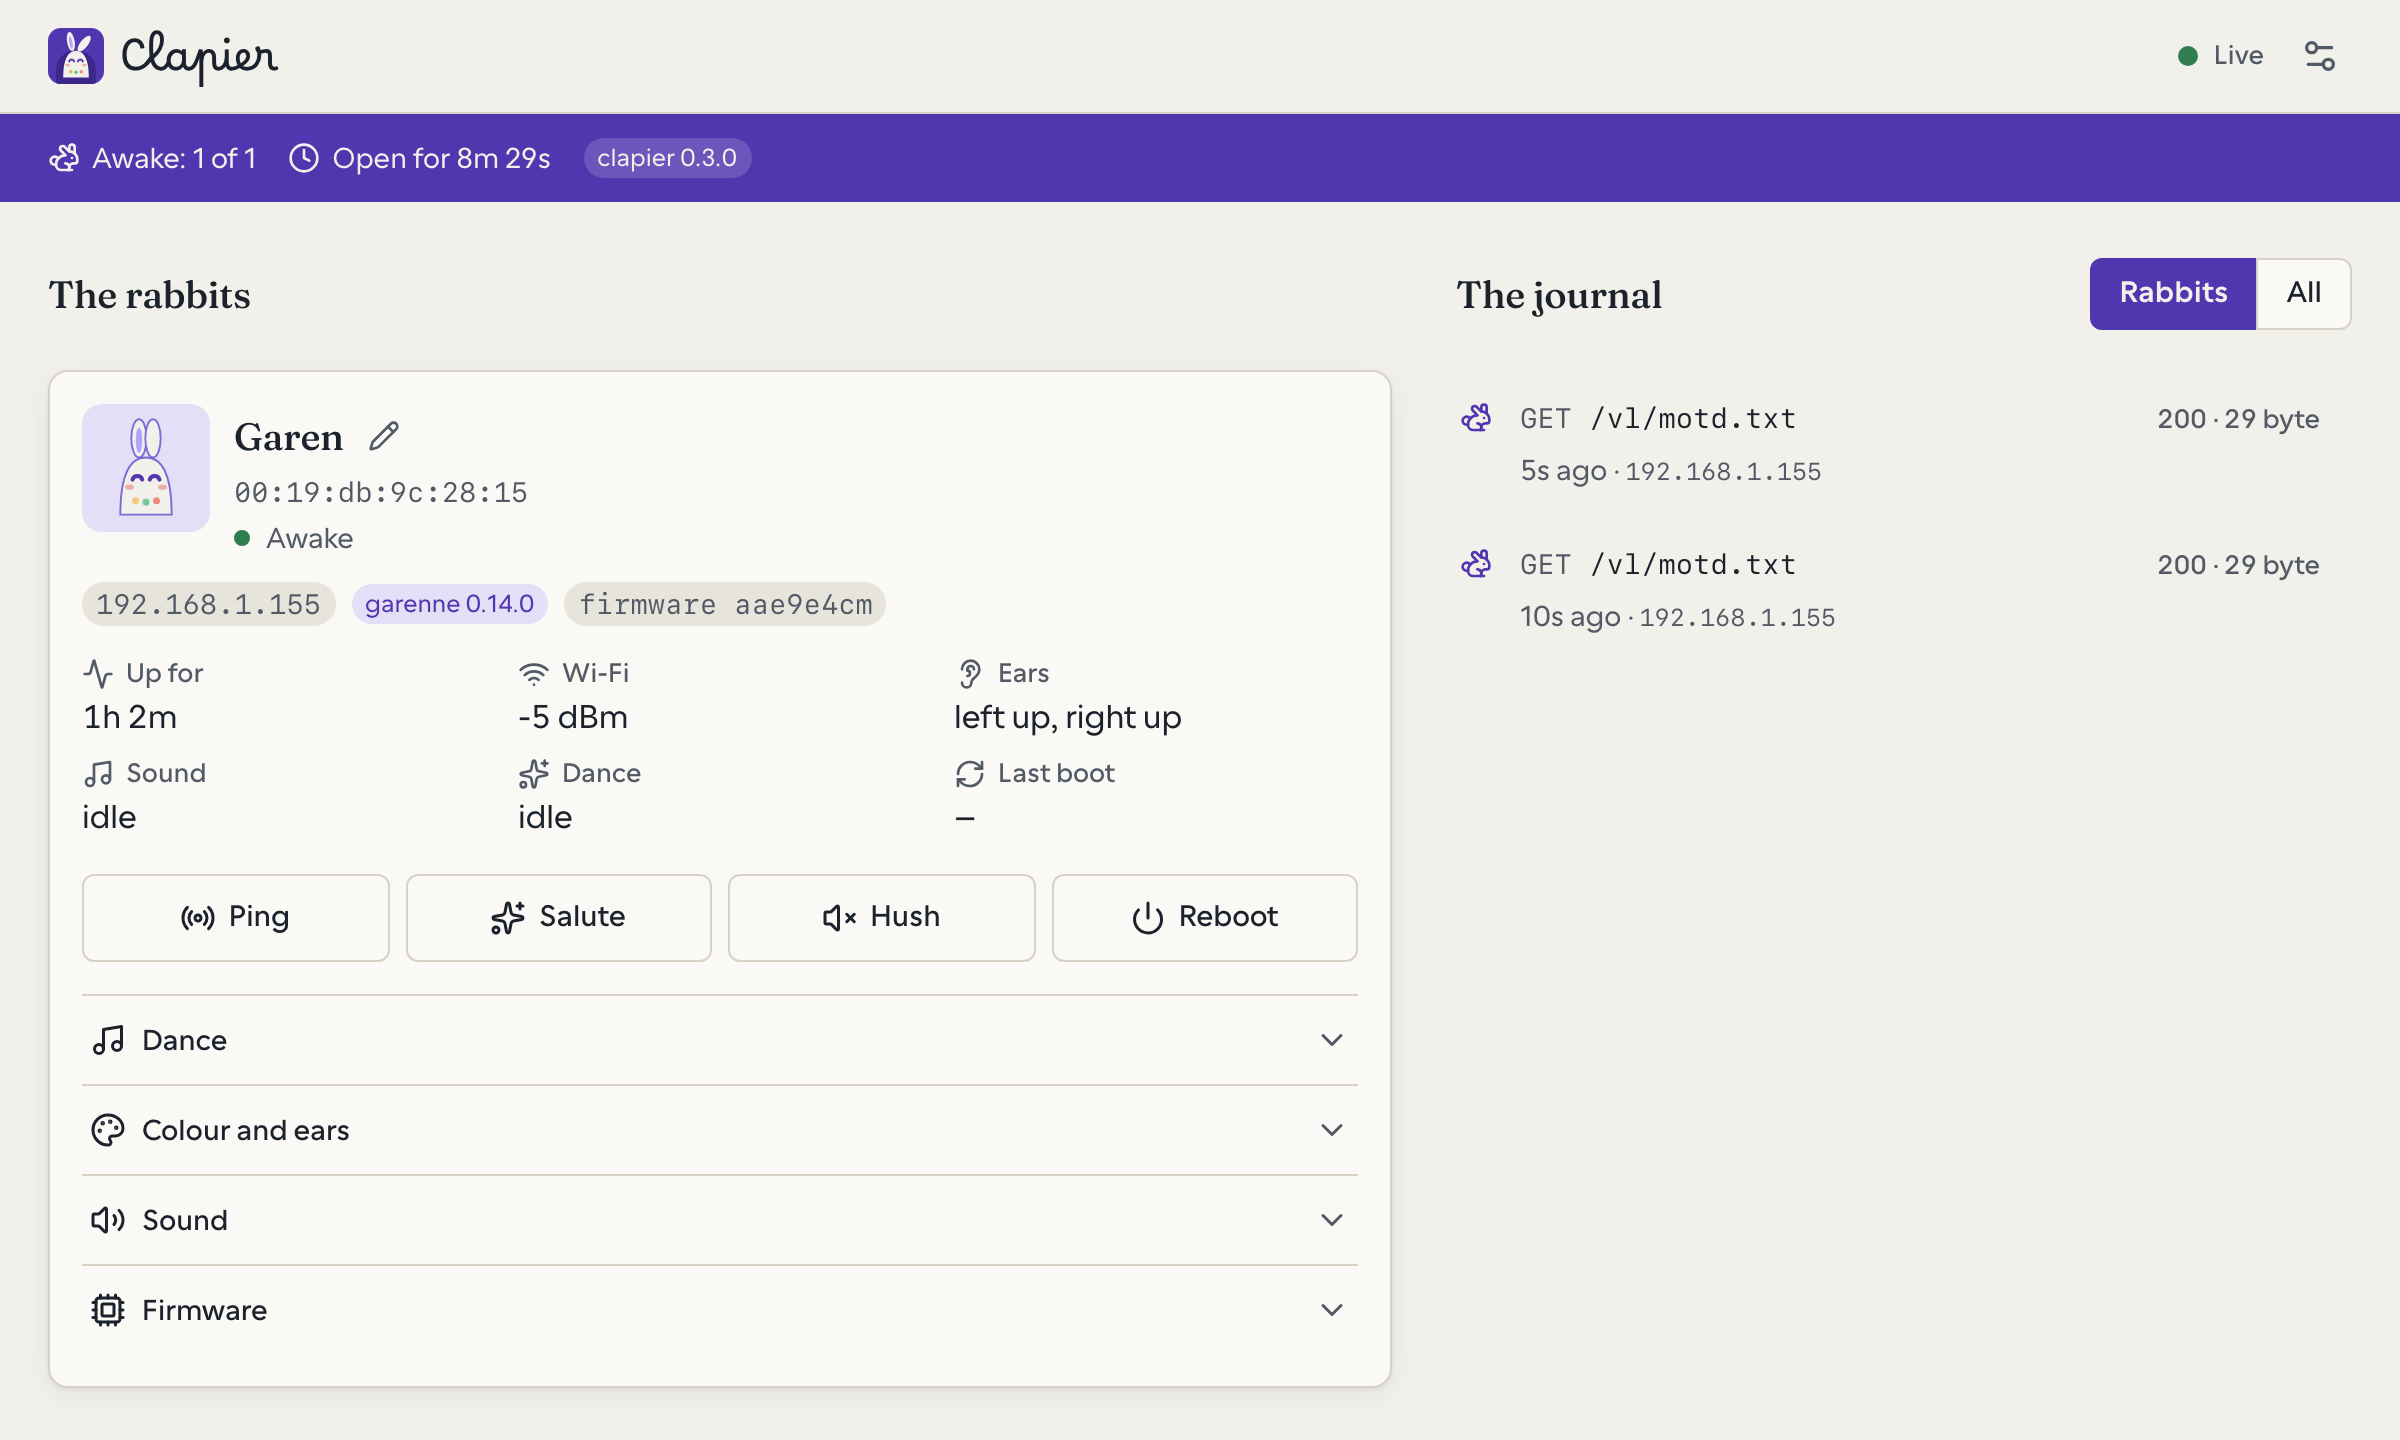
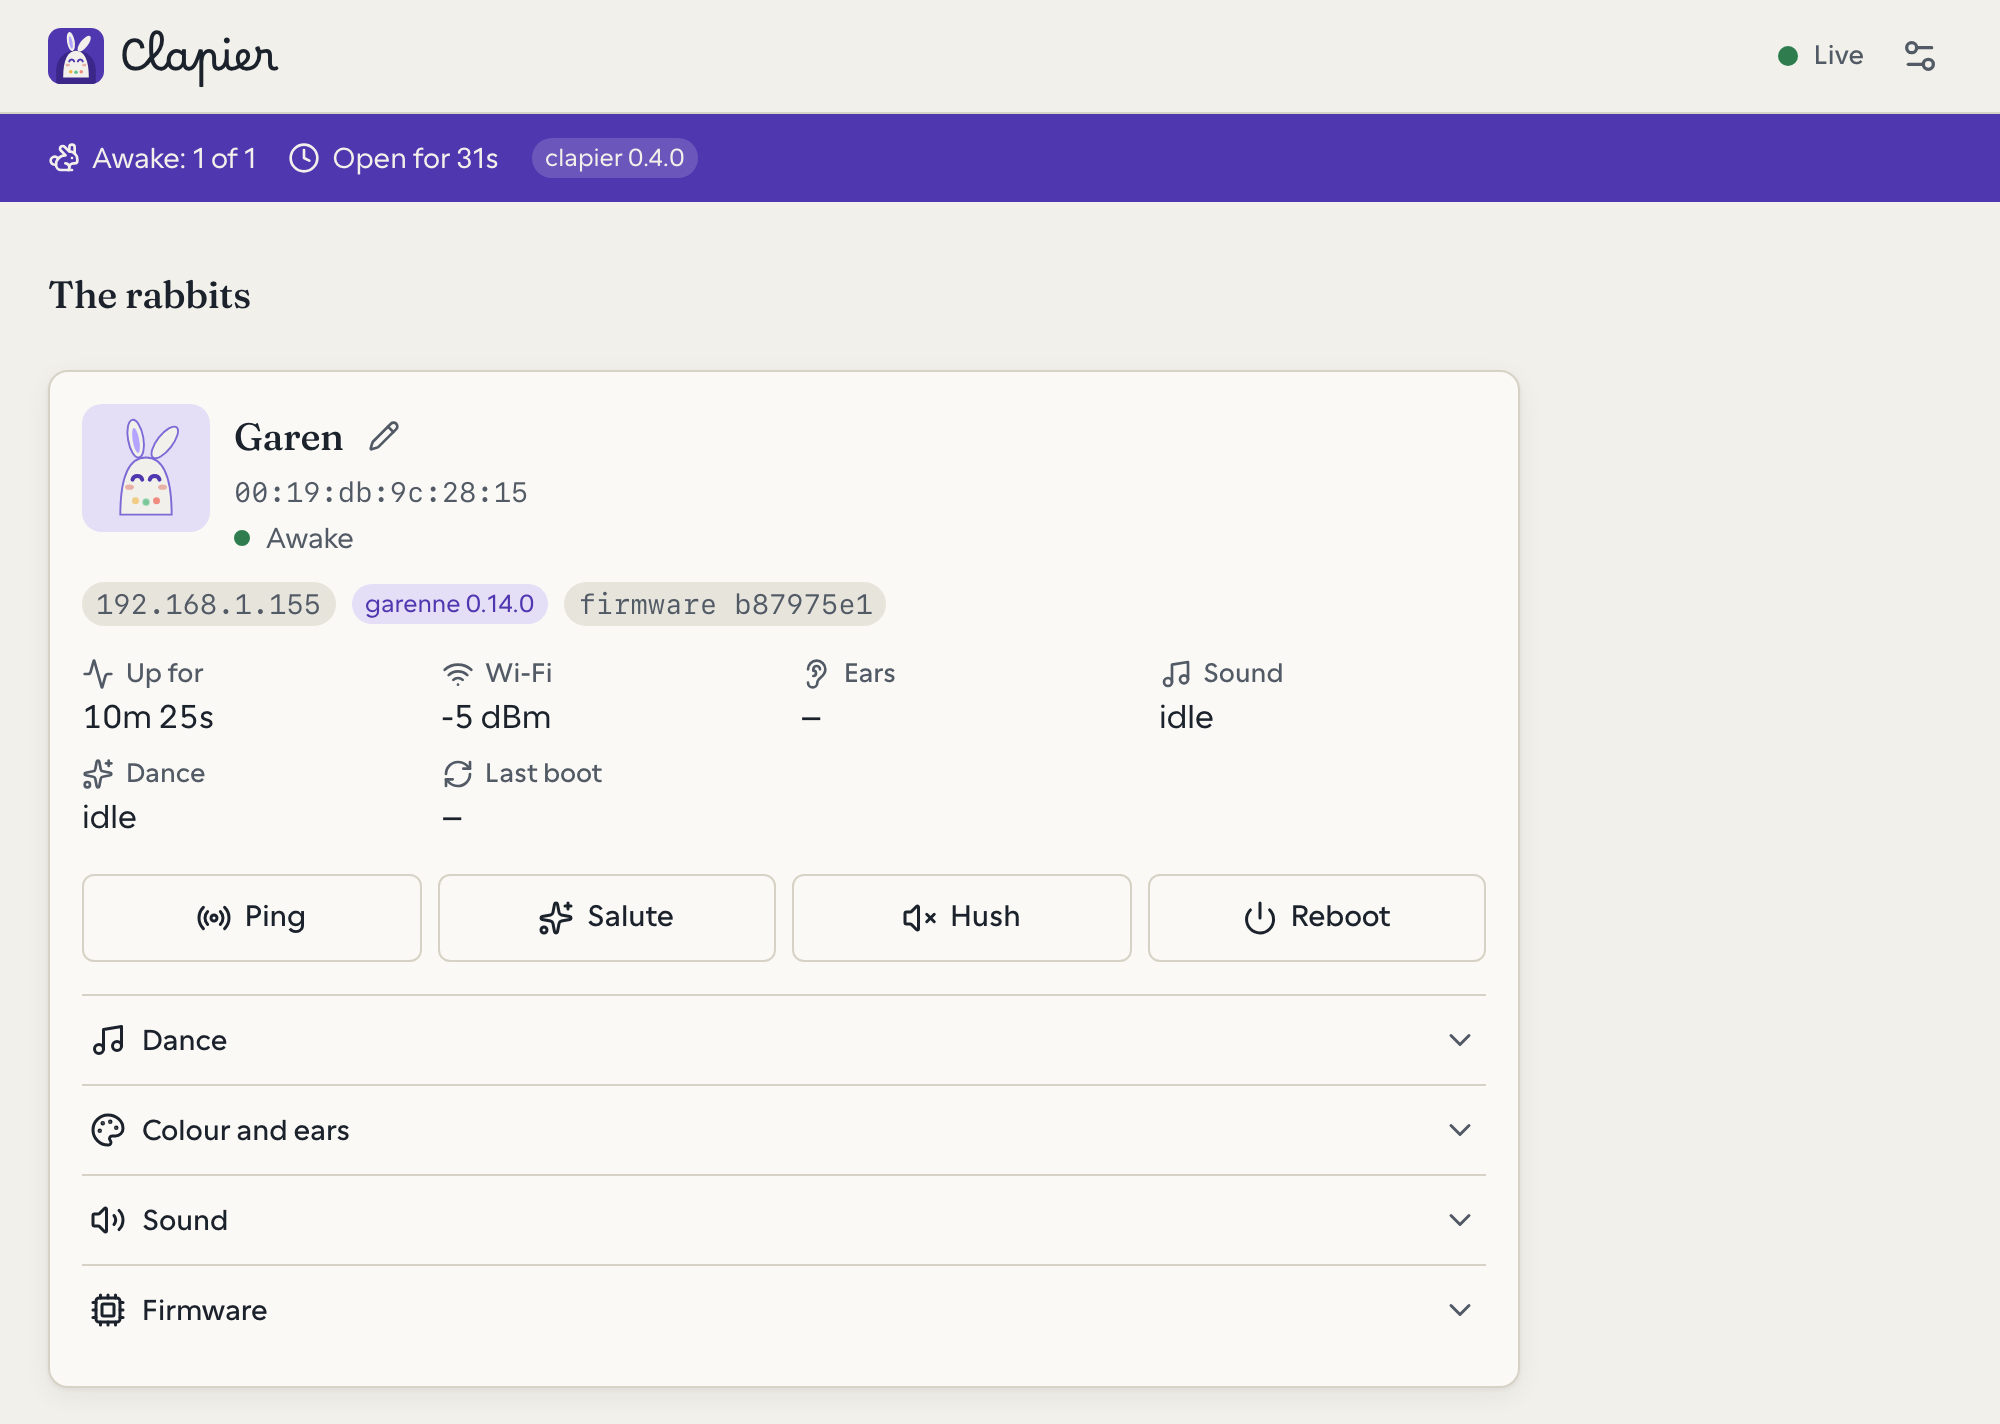
release: 0.4.0, again — with the firmware it was meant to carry
The first v0.4.0 was cut before nabgcc's wpa23-gtk r3 was published and
shipped r2, on a bookworm toolchain, under screenshots of a build that
still called itself 0.3.0. It is withdrawn; this is the one.

The changelog's 0.4.0 section takes the firmware and the trixie move,
the README names r3, and the screenshots come from this build.

diff --git a/CHANGELOG.md b/CHANGELOG.md
@@ -7,13 +7,6 @@ and this project adheres to [Semantic Versioning](https://semver.org/spec/v2.0.0
 
 ## [Unreleased]
 
-### Changed
-
-- The Metal toolchain image (`vendor/metal`, which builds and tests
-  garenne locally and in the release workflow) moves from Debian
-  bookworm to trixie. The bytecode it produces is byte for byte the
-  same.
-
 ## [0.4.0] - 2026-11-22
 
 ### Added
@@ -53,6 +46,12 @@ and this project adheres to [Semantic Versioning](https://semver.org/spec/v2.0.0
 
 ### Changed
 
+- The archives carry nabgcc's `wpa23-gtk` r3 firmware: the first to
+  name its build, with the Wi-Fi fixes that came with it.
+- The Metal toolchain image (`vendor/metal`, which builds and tests
+  garenne locally and in the release workflow) moves from Debian
+  bookworm to trixie. The bytecode it produces is byte for byte the
+  same.
 - The web app's addresses are plain: its JSON under `/api`, its files
   under `/assets`, `/health`. Everything under `/_clapier` leads home.
 - One rabbit takes the room it is given, the journal sits beside it on

diff --git a/README.md b/README.md
@@ -14,7 +14,7 @@ the 2006 rabbit WPA2/WPA3.
 
 <picture>
   <source media="(prefers-color-scheme: dark)" srcset="docs/screenshot-dark.png">
-  <img src="docs/screenshot.png" alt="Clapier's web app: Garen, awake, its state, its gestures and the journal of what it asked">
+  <img src="docs/screenshot.png" alt="Clapier's web app: Garen, awake, the garenne and the firmware it runs, its state and its gestures">
 </picture>
 
 ## Install
@@ -91,8 +91,8 @@ behind a flash: do not unplug the rabbit during those seconds, and keep
 the JTAG guide within reach for a firmware that turns out not to boot.
 
 The tile names the build a rabbit runs on when its firmware says so
-(nabgcc's `portal-ui` line and later stamp it; older images show
-nothing and update all the same).
+(nabgcc's `wpa23-gtk` r3 and later; older images show nothing and
+update all the same).
 
 By hand, the same thing in two commands:
 
